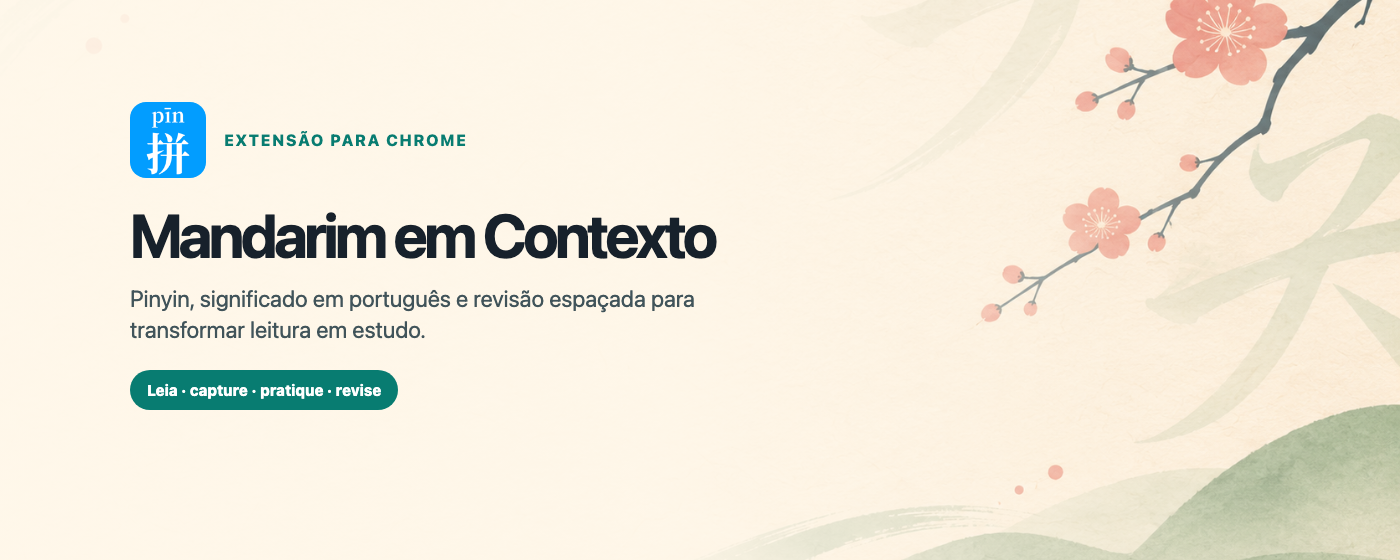
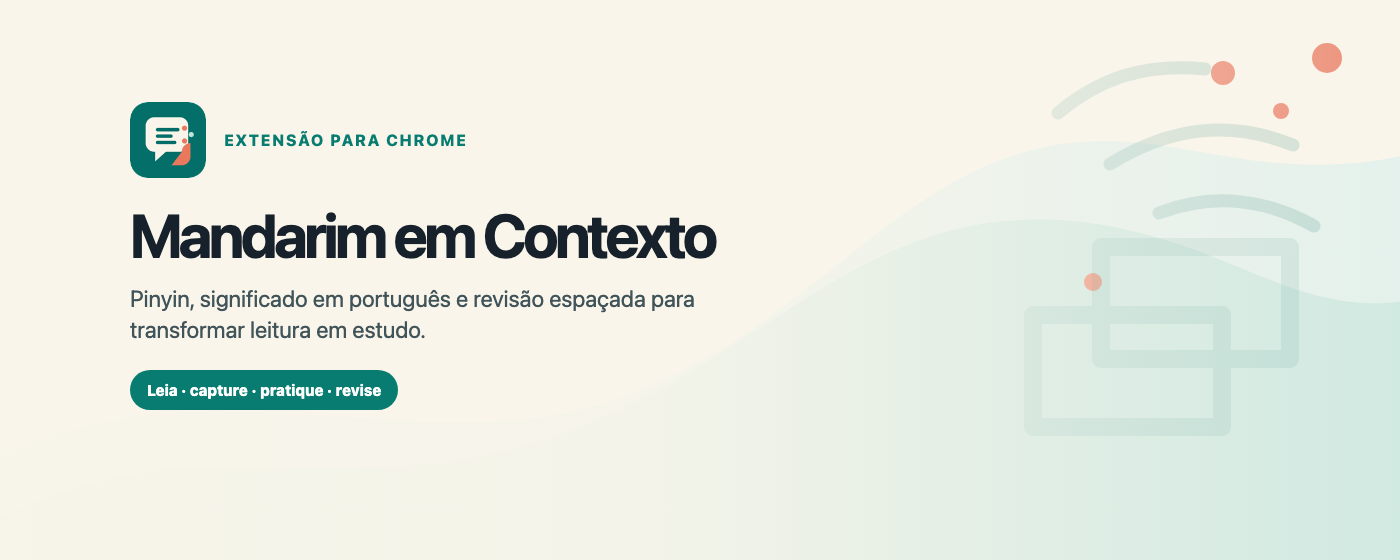
brand: replace inherited visual identity

Changed region(s): [[0.645, 0.0, 1.0, 1.0], [0.0921, 0.1821, 0.1536, 0.3339]]

diff --git a/assets/store-listing/promo-small.html b/assets/store-listing/promo-small.html
@@ -6,7 +6,7 @@
     <style>
       * { box-sizing: border-box; }
       body { background: #f7faf9; color: #17212b; font-family: Inter, -apple-system, BlinkMacSystemFont, "Segoe UI", sans-serif; height: 280px; margin: 0; overflow: hidden; width: 440px; }
-      main { background: linear-gradient(135deg, rgba(243,247,246,.94), rgba(219,241,235,.86)), url("editorial-background.png") center/cover; height: 100%; padding: 32px; position: relative; }
+      main { background: linear-gradient(135deg, rgba(249,245,234,.94), rgba(223,240,236,.86)), url("editorial-background.svg") center/cover; height: 100%; padding: 32px; position: relative; }
       img { border-radius: 13px; height: 58px; position: absolute; right: 32px; top: 32px; width: 58px; }
       .eyebrow { color: #087c71; font-size: 10px; font-weight: 800; letter-spacing: .1em; margin: 0; text-transform: uppercase; }
       h1 { font-size: 32px; letter-spacing: -.055em; line-height: .97; margin: 18px 0 11px; max-width: 260px; }

diff --git a/assets/store-listing/marquee.html b/assets/store-listing/marquee.html
@@ -6,7 +6,7 @@
     <style>
       * { box-sizing: border-box; }
       body { background: #fff8eb; color: #17212b; font-family: Inter, -apple-system, BlinkMacSystemFont, "Segoe UI", sans-serif; height: 560px; margin: 0; overflow: hidden; width: 1400px; }
-      .art { background: linear-gradient(90deg, rgba(255,248,235,.94) 0%, rgba(255,248,235,.88) 47%, rgba(255,248,235,.2) 100%), url("editorial-background.png") center/cover; height: 100%; padding: 102px 130px; }
+      .art { background: linear-gradient(90deg, rgba(249,245,234,.94) 0%, rgba(249,245,234,.88) 47%, rgba(249,245,234,.2) 100%), url("editorial-background.svg") center/cover; height: 100%; padding: 102px 130px; }
       .brand { align-items: center; display: flex; gap: 18px; }
       .brand img { border-radius: 16px; height: 76px; width: 76px; }
       .brand span { color: #087c71; font-size: 16px; font-weight: 800; letter-spacing: .1em; text-transform: uppercase; }

diff --git a/assets/store-listing/BRAND.md b/assets/store-listing/BRAND.md
@@ -1,0 +1,27 @@
+# Identidade visual — Mandarim em Contexto
+
+Esta identidade foi desenhada especificamente para este projeto em novembro de 2026. Os arquivos-fonte vetoriais estão em `assets/` e `assets/store-listing/`;
+não reutilizam o ícone, os blocos promocionais nem a marca do Pinyin Annotator.
+
+## Ideia
+
+O símbolo representa dois cartões de estudo sobrepostos: uma anotação não vive
+isolada, ela ganha sentido no contexto. Os três pontos formam um ritmo visual
+para a fala e os tons, sem reproduzir símbolos ou logotipos de terceiros.
+
+## Paleta
+
+- Verde contexto: `#0A6F68`
+- Papel: `#F9F5EA`
+- Verde suave: `#BFE4DC`
+- Coral de foco: `#E9775D`
+- Tinta: `#17212B`
+
+## Uso
+
+- `../mandarim-em-contexto-mark.svg` é a fonte do ícone da extensão.
+- `editorial-background.svg` é a fonte do padrão dos banners.
+- Os PNGs da pasta são exportações locais desses arquivos e das maquetes HTML.
+
+O ícone publicado em `assets/icon.png` é uma exportação deste símbolo. O antigo
+bloco promocional do projeto-base não é usado nesta identidade.
